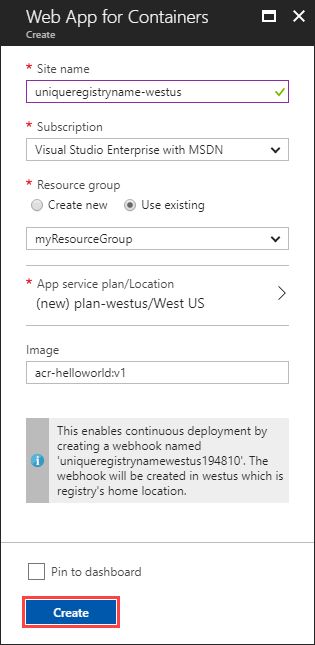
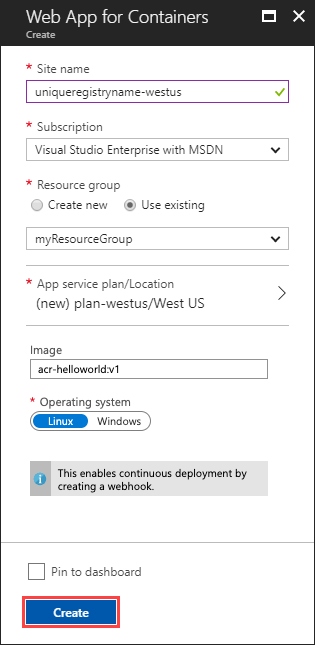
Updated screenshots

Changed region(s): [[0.0571, 0.5271, 0.9143, 0.8062], [0.9143, 0.5581, 0.9429, 0.5891], [0.8286, 0.5581, 0.8571, 0.5891]]

diff --git a/articles/container-registry/container-registry-tutorial-deploy-app.md b/articles/container-registry/container-registry-tutorial-deploy-app.md
@@ -51,8 +51,8 @@ Under **Web App for Containers** that's displayed after you select "Deploy to we
 | **Site Name** | A globally unique name for the web app. In this example, we use the format `<acrName>-westus` to easily identify the registry and region the web app is deployed from. |
 | **Resource Group** | **Use existing** > `myResourceGroup` |
 | **App service plan/Location** | Create a new plan named `plan-westus` in the **West US** region. |
-| **Image** | `acr-helloworld:v1`
-| **Operating system** | Linux
+| **Image** | `acr-helloworld:v1` |
+| **Operating system** | Linux |
 
 > [!NOTE]
 > When you create a new app service plan to deploy your containerized app, a default plan is automatically selected to host your application. The default plan depends on the operating system setting.
@@ -84,7 +84,8 @@ Use the procedure outlined in the previous section to deploy a second web app to
 | **Site Name** | A globally unique name for the web app. In this example, we use the format `<acrName>-eastus` to easily identify the registry and region the web app is deployed from. |
 | **Resource Group** | **Use existing** > `myResourceGroup` |
 | **App service plan/Location** | Create a new plan named `plan-eastus` in the **East US** region. |
-| **Image** | `acr-helloworld:v1`
+| **Image** | `acr-helloworld:v1` |
+| **Operating system** | Linux |
 
 Select **Create** to provision the web app to the *East US* region.
 
